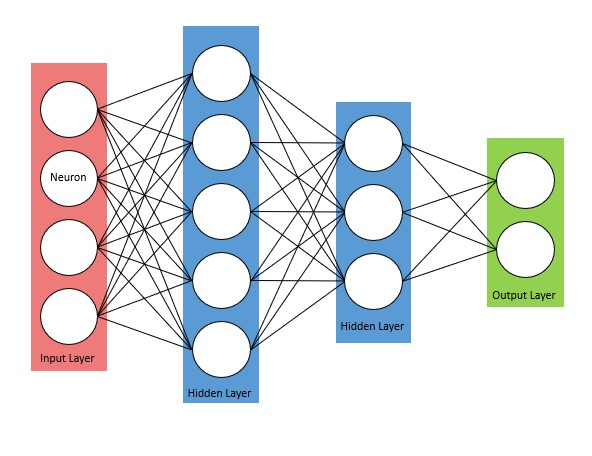
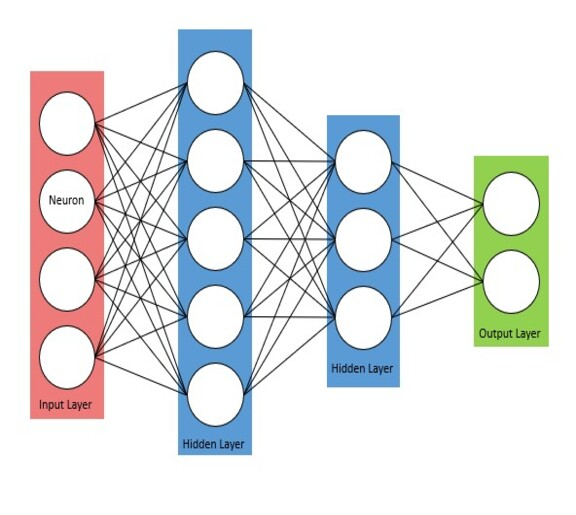
Fixed Image overlap on nncgao

diff --git a/nncgao.html b/nncgao.html
@@ -63,7 +63,7 @@
 									<p>As part of an optimisation algorithm module, the task was to develop an algorithm to optimise a problem. I wanted to gain a better understanding of neural networks, more so on how they function. I challenged myself with creating my own neural network class which would be the basis for my optimisation problem. With prior knowledge of implementing genetic algorithms from the first semester, I chose this as the optimiser.</p>
 								
 									<div class="content">
-										<ul class="actions">
+										<ul class="actions stacked">
 											<li><a href="#two" class="button scrolly">How It Works</a></li>
 											<li><a href="#three" class="button">Video Demonstration</a></li>
 											<li><a href="#five" class="button">Code Files</a></li>
@@ -75,7 +75,7 @@
 						<!-- Two -->
 							<section id="two" class="spotlights">
 								<section>
-									<img src="images/network.jpg" alt="" data-position="center center" style="width: auto; height: auto;"/>
+									<img src="images/network.jpg" alt="" data-position="center center" style="width: 100%; height: auto;"/>
 									<div class="content">
 										<div class="inner">
 											<header class="major">
@@ -88,7 +88,7 @@
 									</div>
 								</section>
 								<section>
-									<img src="images/nncfeedforward.png" alt="" data-position="center center" style="width: auto; height: auto;"/>
+									<img src="images/nncfeedforward.png" alt="" data-position="center center" style="width: 100%; height: auto;"/>
 									<div class="content">
 										<div class="inner">
 											<header class="major">
@@ -131,14 +131,15 @@
 										<h2>Video Demonstration</h2>
 									</header>
 										<!-- style="margin-left: auto; margin-right: auto; width: 50%;" -->
-									<video src="videos/Using NNCGAO.mp4" autoplay muted loop style="display: block; margin: auto; width: 80%; height: auto;"></video>
+									<video src="videos/Using NNCGAO.mp4" autoplay muted loop style="display: block; margin: auto; width: 100%; height: auto;"></video>
 								</div>
+								<hr class="major" />
 							</section>
 
 							<!-- Four -->
 							<section id="four" class="spotlights">
 								<section>
-									<img src="images/nncgaopredict.png" alt="" data-position="center center" style="width: 55vw; height: auto;"/>
+									<img src="images/nncgaopredict.png" alt="" data-position="center center" style="width: 100%; height: auto;"/>
 									<div class="content">
 										<div class="inner">
 											<header class="major">
